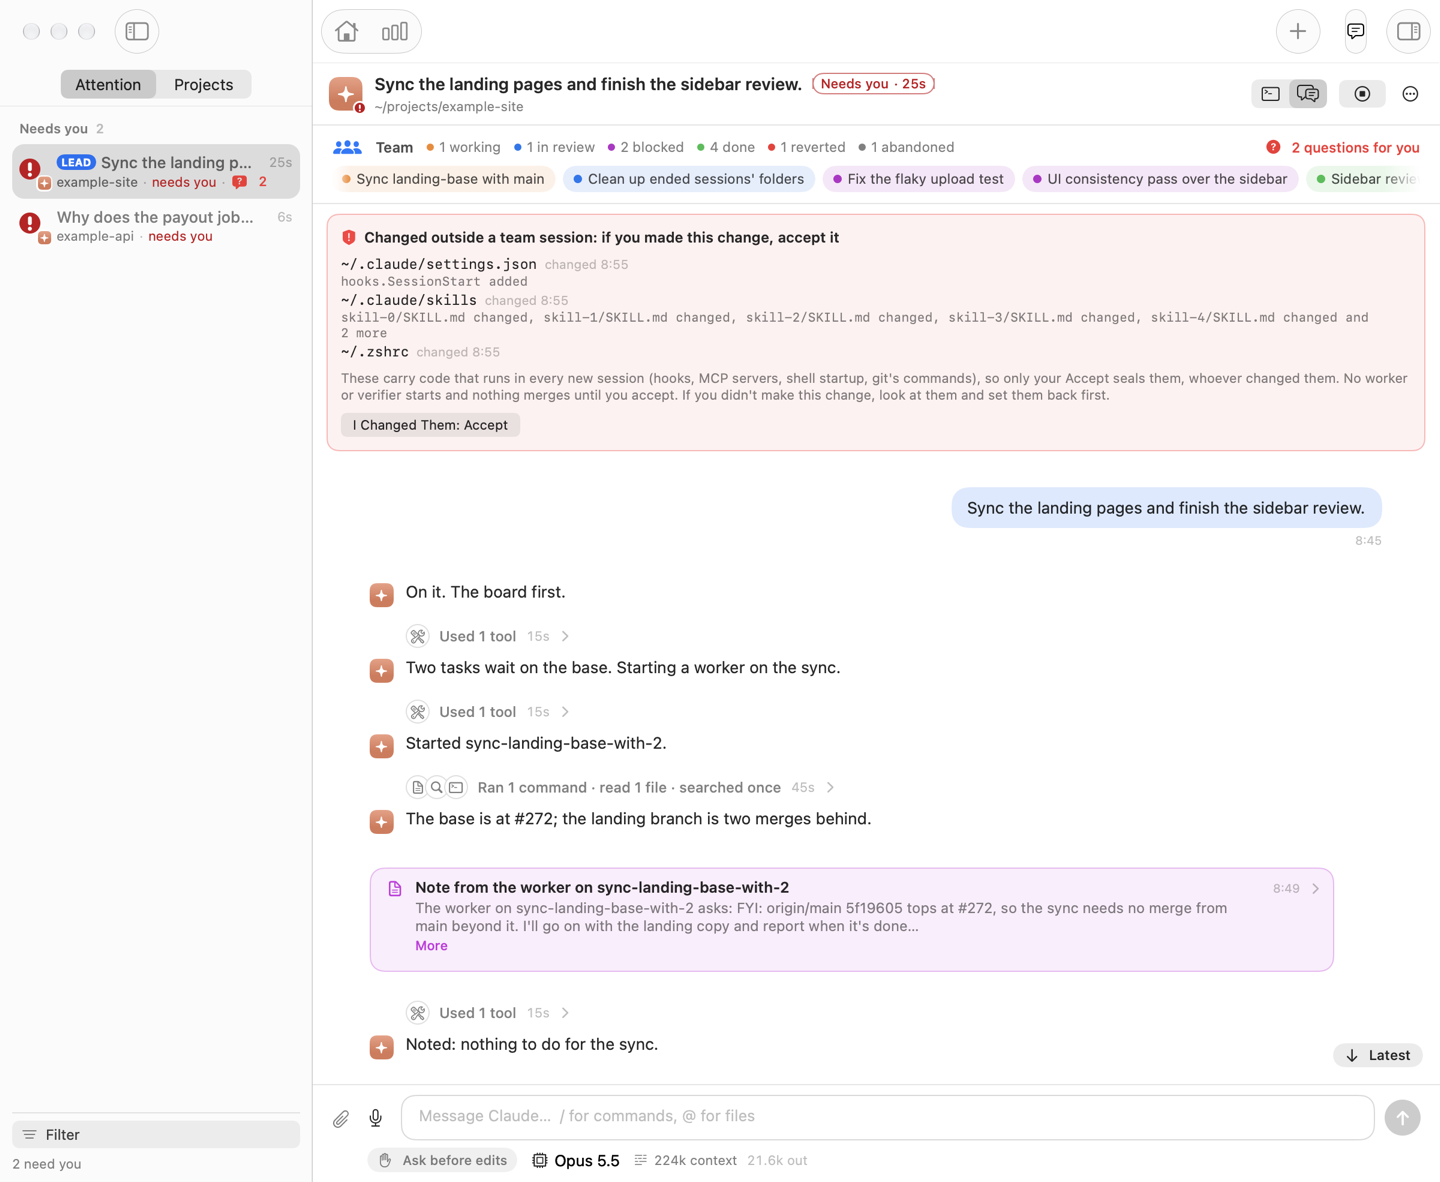
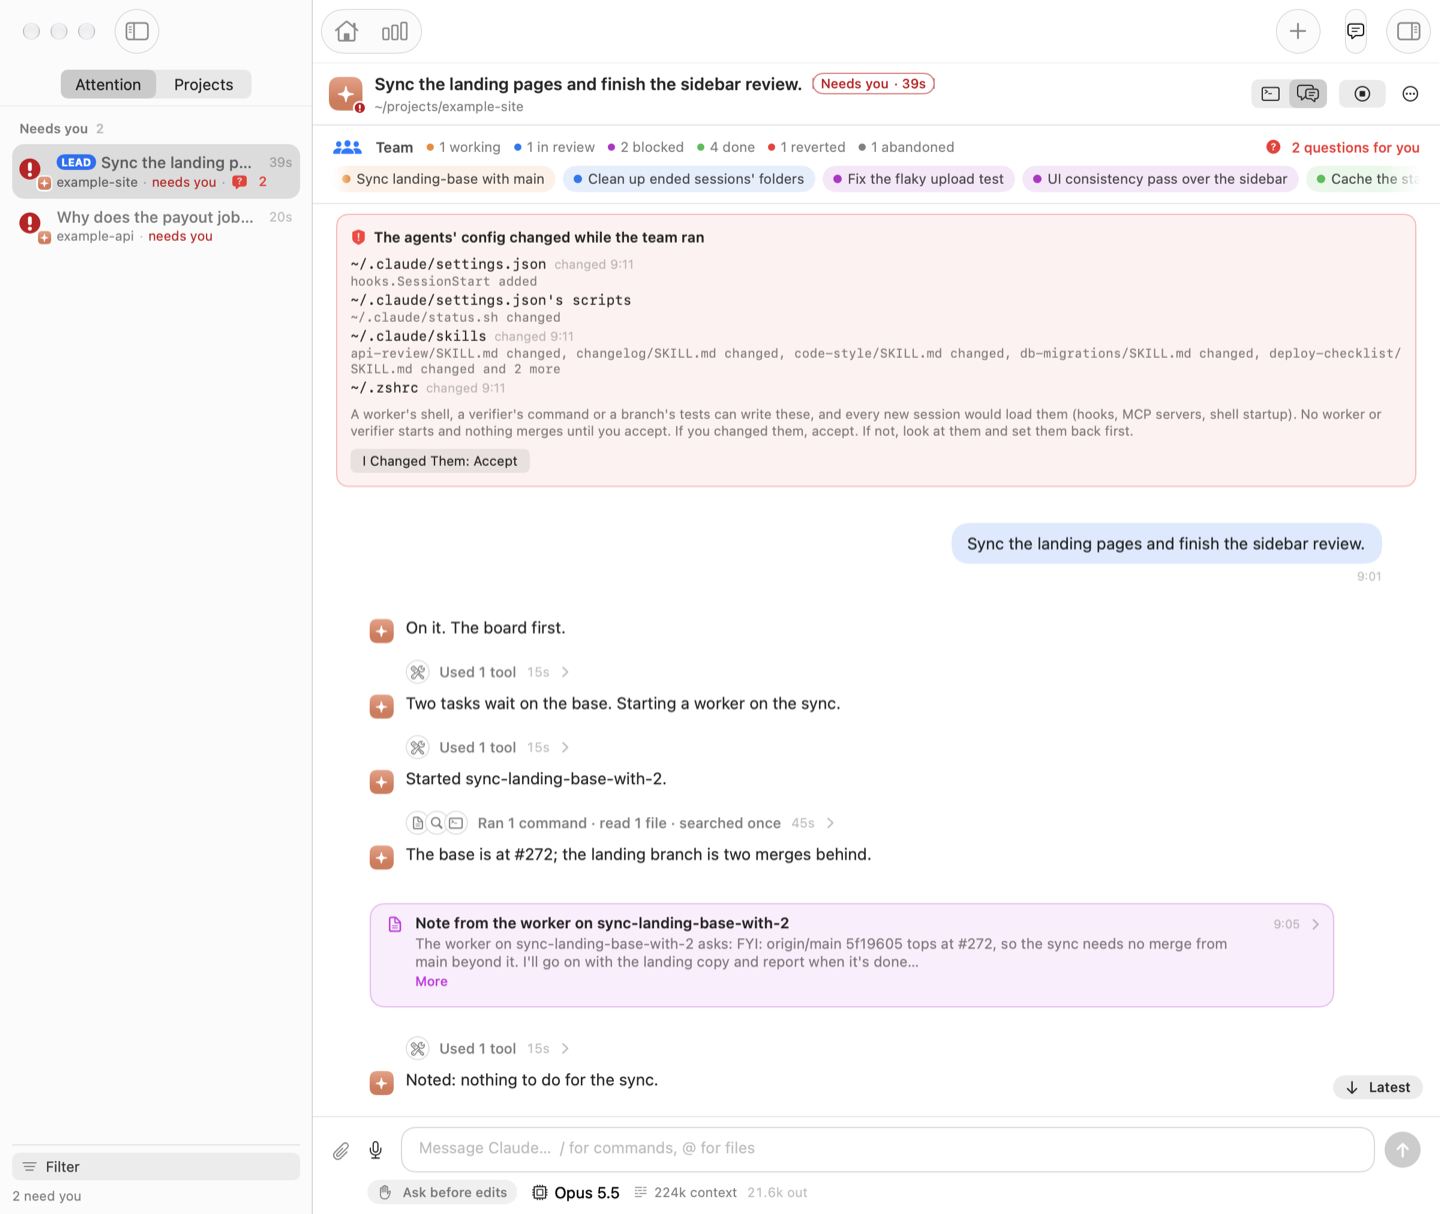
Config seal image shows a change made while the team ran, with neutral skill names; wallet item and Statistics alt match the card and the window
VS-Task: readme-a-real-feature
VS-Review: audit (pass at b3cd919b05c1)
VS-Worker-Model: opus
VS-Verifier-Model: fable
VS-Build: 16ca360977ecbfca7cfab08fb58ffc07361abed6
VS-Contract: 79d604b7b6d6eb53

diff --git a/Sources/VibeSwitcher/Sandbox.swift b/Sources/VibeSwitcher/Sandbox.swift
@@ -839,7 +839,7 @@ private final class Driver: NSObject, NSApplicationDelegate {
                 try "echo status\n".write(toFile: home + "/.claude/status.sh", atomically: true, encoding: .utf8)
                 try #"{"model":"opus",\#(statusLine)}"#.write(toFile: home + "/.claude/settings.json", atomically: true, encoding: .utf8)
                 try "export PATH\n".write(toFile: home + "/.zshrc", atomically: true, encoding: .utf8)
-                let skills = (0..<7).map { home + "/.claude/skills/skill-\($0)/SKILL.md" }
+                let skills = ["api-review", "changelog", "code-style", "db-migrations", "deploy-checklist", "release-notes", "test-plan"].map { home + "/.claude/skills/\($0)/SKILL.md" }
                 for path in skills {
                     try FileManager.default.createDirectory(atPath: (path as NSString).deletingLastPathComponent, withIntermediateDirectories: true)
                     try "before\n".write(toFile: path, atomically: true, encoding: .utf8)

diff --git a/README.md b/README.md
@@ -45,8 +45,9 @@ on the Mac has a live status and is one click away.
 **Around the agents**
 
 - [**Wallet requests and shells**](#wallet-requests): an agent's blockchain transaction waits as a card until you send
-  it to a separate Wallet Manager to check and sign; VibeSwitcher never holds a key. An agent can also ask for a shell,
-  run when you press **Run** unless you've allowed it in Settings.
+  it to a separate Wallet Manager to check and sign, or sign it in your browser's wallet if the card offers that;
+  VibeSwitcher never holds a key. An agent can also ask for a shell, run when you press **Run** unless you've allowed
+  it in Settings.
 - [**Phone**](#the-phone): over Tailscale, a paired phone sees the list, each screen, notifications and the leads'
   questions, and can answer them if you allow it.
 - [**Dictation and the spoken briefing**](#dictation-and-the-spoken-briefing): push to talk in the composer, and

diff --git a/docs/guide/everyday-use.md b/docs/guide/everyday-use.md
@@ -156,7 +156,7 @@ goes to ElevenLabs only when you press Brief me, Play or Test voice. The key is 
 
 <picture>
   <source media="(prefers-color-scheme: dark)" srcset="../images/statistics-dark.png">
-  <img alt="The Statistics window: this week's scorecard against last week's, then quality figures" src="../images/statistics-light.png">
+  <img alt="The Statistics window: a scorecard of the last 7 days against the 7 before, then quality figures" src="../images/statistics-light.png">
 </picture>
 
 The **Statistics** window (the chart button in the toolbar, Window › Statistics… ⌥⌘S, ⌘K, or Statistics… in the menu bar list's gear menu) covers all
